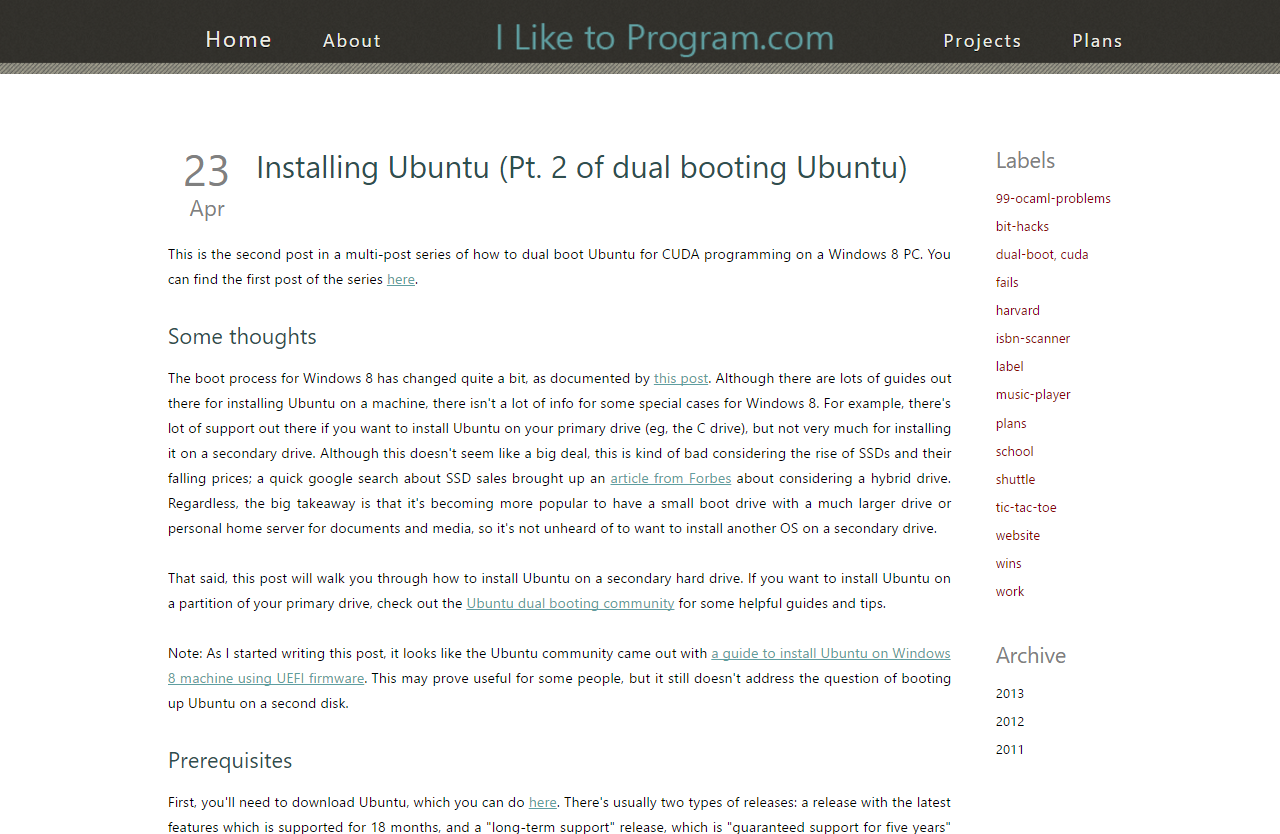
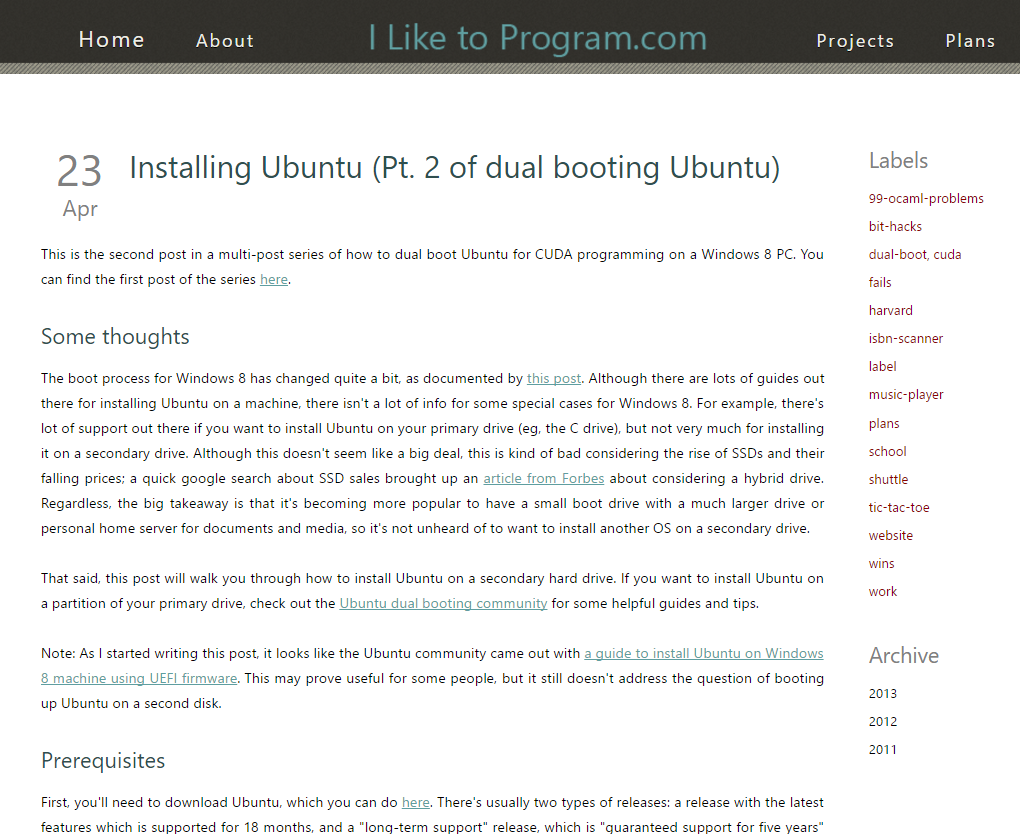
Changes include:  - Cropped images for that first post  - Updated about page  - Updated old posts with updated info  - Bulleted lists in posts are now using the "inside" list position style instead of the outside, ie text is flush against the bullet now

diff --git a/_sass/post.scss b/_sass/post.scss
@@ -22,7 +22,8 @@
         $line_height: 1.25em;
         margin-top: $line_height;
         clear: both;
-        line-height: $line_height; text-align: justify;
+        line-height: $line_height;
+        text-align: justify;
         h2 {
             float: none;
             margin: 0;
@@ -32,7 +33,6 @@
             line-height: $line_height;
         }
         p { margin-top: 0; }
-        ul, ol { list-style-position: inside; }
     }
     img {
         display: block; margin: auto; max-width: 100%; height: auto;

diff --git a/_posts/2017-04-20-new-look-changing-hosts-and-moving-to-jekyll.md b/_posts/2017-04-20-new-look-changing-hosts-and-moving-to-jekyll.md
@@ -1,44 +1,24 @@
 ---
 layout: post
 title: New look - Changing hosts and moving to Jekyll
-#date: 
-tags: [updates, website, jekyll]
+date: 2017-04-20
+tags: [updates, website, jekyll, s3, github-pages, wsl]
 image: /assets/images/post_img.png
 image_alt: New look
 image_caption: New look for the website
 description: 
 ---
 
- - Layout changes
-   + Projects moved from being locally hosted to github
-   + Plans section scrapped, since I change my mind all the time
-   + Archive moved to separate page
-   + Tags are no longer browseable
- - Code
-   + Moved from PHP+html+MySQL to html+Markdown+JS+YAML+Liquid generated by Jekyll
-   + Moved from CSS to SASS
-   + Will talk more about Jekyll in future posts
- - Hosting and domains
-   + Changed domain registrars from 1&1 to Amazon Route 53
-   + Initially moved from Hostinger to Amazon S3
-     * Required that I use Amazon Cloudfront to hook up Route 53 to S3 using https
-   + Later changed to GitHub pages and Cloudflare
-     * Will discuss why as well as the pros and cons of each later
- - Future posts
-   + Jekyll
-   + Windows drivers
-   + Personal finance
-
-Originally, this site was created during college as a place to show off some side projects when applying for jobs, as well as a means to maintain my super basic web dev skills.  I've since graduated and moved on to getting some jobs, but this website has pretty much [only changed once]({% post_url 2012-01-12-makeover %}).
+Originally, this site was created during college as a place to show off some side projects when applying for jobs, as well as a means to maintain my super basic web dev skills.  I've since graduated and moved on to getting some jobs, but this website has pretty much [only changed once]({% post_url 2012-01-12-makeover %}), and that was *5 years* ago.
 
 It was about time for a refresh.
 
-I've changed the site in 3 key ways:
+The site has changed in 3 key ways:
  - Layout
  - Underlying code
  - Hosting
 
- As a result, the website is much more performant and functional than before.
+ Additionally, I want to start focusing on generating long form content in the form of guides, tutorials, and opinions to help others who may have hit the same problems that I have.  Initially I'll be focusing on how this website got brought up, but in the near future I plan on talking about drivers primarily for Windows as well as financial topics.
 
 <!--more-->
 
@@ -48,7 +28,45 @@ Before these changes, the website looked something like this:
 
 <img src="/assets/images/oldsite_v2.png" alt="The old site">
 
-In that old design, I treated a flat list of "labels" aka tags as a first class citizen on the home page.  Looking back, this may not have been a great idea since there will probably be a large amount of tags in the future.  Furthermore, finding posts meant either a) browsing through the labels or b) digging through the archive which was broken down by year and month.  Since my blog was (and still is) pretty small, this is an alright solution, but it won't scale once I start adding more content to the website.
+In that old design, I treated a flat list of "labels" aka tags as a first class citizen on the home page.  Looking back, this may not have been a great idea since there will probably be a large amount of tags in the future.  Furthermore, finding posts meant either a) browsing through the labels or b) digging through the archive which was broken down by year and month.  Since my blog was (and still is) pretty small, this is an alright solution, but it won't scale once more content is added to the site.
 
-I've replaced the archive sidebar with the archive page, which is just a flat list sorted by year.  The posts aren't collapsed or anything, so users can browse the headlines.  I've also added a [Google Custom Search Engine](https://cse.google.com/cse/) search bar so users can quickly find content.  I don't have a replacement for browsing tags right now, but that may be something I'll add later; thanks to some underlying code changes I'll touch on later, doing so would be extremely trivial.
+The archive sidebar has been replaced by the archive page, which is just a flat list sorted by year.  The posts aren't collapsed or anything, so users can browse the headlines.  A [Google Custom Search Engine](https://cse.google.com/cse/) search bar to quickly find content.  There isn't a replacement for browsing tags right now, but that may be something I'll add later; thanks to some underlying code changes I'll touch on later in this post, doing so would be extremely trivial.
 
+The plans page has been completely eliminated, since they change all the time depending on time constraints and my whims.  It was pretty common for old posts to say something along the lines of "I hope to get started on blah blah project next week, described on the plans page" and then of course there'd be no follow-up
+
+The biggest change by far is the projects page.
+
+<img src="/assets/images/oldsite_v2_projects.png" alt="The old projects page">
+
+Binary and source code downloads for the projects were hosted on that page, since GitHub wasn't as popular a website when I first started out.  It effectively had a description, a README, some metadata (eg, language, documentation), a slide show of screenshots, and a list of downloads.  With the emergence of GitHub and other version control hosting services, the projects page became redundant.  The only things I really miss about that page was how the content was uniformly laid out and the screenshot slide show, but that's not a big loss at all when I get free hosting and no longer have to maintain the page and a bunch of zips.
+
+I've also changed the style of the site drastically to go for a more minimal feel as well as scale very well for mobile devices.
+
+## Code ##
+
+By far the biggest change was the move from PHP plus a MySQL database to [Jekyll](http://jekyllrb.com/), a static website generator.
+
+Beforehand, each page was a mix of HTML and PHP which would retrieve data from the database and wrap it in more HTML; in other words, content was stored in the database, and markup was done primarily in PHP with a bit of JavaScript here and there.  Content was uploaded to the database using my own crude "content management system" as a mix of weird HTML and plain text, and frankly it had a hard time dealing with spacing or uncommon characters, which was always a pain point.
+
+With Jekyll, content is written in [Markdown](https://en.wikipedia.org/wiki/Markdown#Example) or raw HTML and passed through a template engine called [Liquid](https://github.com/Shopify/liquid/wiki) to create static HTML files.  This results in a number of advantages over what I was doing previously as well as other CMSs:
+
+ - Because there is no server-side logic to run, loading pages is *super* fast, since it's just plain HTML and the occasional JavaScript.
+ - Content like blog posts are no longer hidden away inside databases or content management systems.  It's completely self-contained in easily-readable flat files that you can store anywhere, including a version control system like Git.
+ - Because the website is built locally before being put on the hosting service, the developer gets to control what is or isn't included in the website; compare this to a CMS like WordPress which relatively is very heavy with bloat.
+ - For the same reason as the previous point, there are way less security vulnerabilities because there is no database and no PHP.
+
+There are definitely some cons to Jekyll, especially when trying to adapt it for more complex sites which I'll get into in future posts, but for my purposes and this site, it's absolutely fantastic.
+
+Previously, Jekyll was only meant to be developed on *nix systems or Macs.  However, with the release of the Creator's Update for Windows 10, the [Windows Subsystem for Linux](https://msdn.microsoft.com/en-us/commandline/wsl/about), or WSL, is now more than functional as a development environment, and in fact it's easy to build websites using Jekyll in Windows as a result.  I've enjoyed the experience so much that I plan on writing a series of posts about my experience building this site in a Windows environment using Jekyll.
+
+## Hosting ##
+
+I'm a pretty cheap guy, so this website originally used to be hosted on [000webhost](https://www.000webhost.com/) which I believe to this day still offers free hosting with PHP and MySQL support.  The caveat back then was that sites without a minimal amount of traffic would be taken down every month.  I ended up having to re-upload the site every month.
+
+Eventually I switched to the free tier at [Hostinger UK](https://www.hostinger.co.uk/web-hosting) around three years ago.  Since the site was hosted in the UK though, it was pretty slow to load for me.
+
+In 2017, there are now more options around for cheap hosting low-traffic websites, and even more if a website doesn't need to run any server-side code like PHP.  I moved this site to the super-cheap [Amazon S3](https://aws.amazon.com/s3/) for a few days before settling on [GitHub Pages](https://pages.github.com/).  I plan on writing a post comparing the two services, but I found that GitHub pages met all my needs, [can actually build Jekyll sites for you](https://help.github.com/articles/about-github-pages-and-jekyll/) (so it doesn't need to be done locally), and is completely free versus the few cents per month for S3 plus the risk of a large bill if a DDoS occurred.
+
+The other change I made in this area was switching domain registrars.  I've used [1&1 Domains](https://www.1and1.com/domain-names?ar=1#stage) since this site's inception, but their UX has gone down the drain over the past few years.  I ended up switching to [Amazon Route 53](https://aws.amazon.com/route53/) when I switched my hosting service to S3 in order to use Amazon's CDN, [Amazon Cloudfront](https://aws.amazon.com/cloudfront/), to enjoy SSL support.  The UX for Route 53 is way better; it's much simpler and is not trying to actively upsell you on other products, which is nice for a change.  I've since changed CDNs to [Cloudflare](https://www.cloudflare.com/cdn/) which offers a [free tier that includes SSL certificates, a global CDN, and limited DDoS protection](https://www.cloudflare.com/plans/).
+
+All these changes have resulted in this website, which I hope users will enjoy more.  I'm genuinely looking forward to tinkering with it down the line as well as writing some material for the site.

diff --git a/_posts/2011-09-06-wins-school-and-more-projects.md b/_posts/2011-09-06-wins-school-and-more-projects.md
@@ -17,4 +17,4 @@ I made a ton of updates to the playlist shuffler, all little things that weren't
 
 In late August, I started designing an ISBN scanner for my friend's home library. He wants a digital archive of all the books in his house, and I figured he could use a variant of my iPod Touch scanner application to generate this archive. I started implementing the server-side script in Python (and nearly finished too) before realizing that my free host only supports PHP, goddammit. I'll probably translate the script to PHP and begin the scanner app later on this week when I'm finished with my first round of problem sets. I'll be devoting a very small amount of time to this over the course of the semester, and it should be *completely* finished by Christmas.
 
-I also found out that my AI course this semester will be using Python exclusively, and the first pset was a simple intro to Python. My experience with Python has mostly been with scripting, especially handling csv files, so I decided to go ahead and tackle 99 Problems in Python, inspired by [99 Problems in Prolog](https://sites.google.com/site/prologsite/prolog-problems){:target="_blank"}. I finished the first 28 problems in about 2 and a half hours, and I feel extremely comfortable manipulating lists in whatever paradigm I want in Python now. I'll probably tackle a few more problems tomorrow, and I'll post a copy of my solutions very soon, if I continue at this pace :)
+I also found out that my AI course this semester will be using Python exclusively, and the first pset was a simple intro to Python. My experience with Python has mostly been with scripting, especially handling csv files, so I decided to go ahead and tackle 99 Problems in Python, inspired by [99 Problems in Prolog](https://sites.google.com/site/prologsite/prolog-problems){:target="_blank"}. I finished the first 28 problems in about 2 and a half hours, and I feel extremely comfortable manipulating lists in whatever paradigm I want in Python now. I'll probably tackle a few more problems later, and I'll post a copy of my solutions very soon, if I continue at this pace :)

diff --git a/_posts/2011-07-26-music-player-fail.md b/_posts/2011-07-26-music-player-fail.md
@@ -19,4 +19,4 @@ Specifically, my computer did not agree with registering my deskband player in t
 
 My goal is to create a pretty minimal player that shuffles iTunes music and playlists using different audio libraries for audio support, starting with [Ambiera's IrrKlang engine](http://www.ambiera.com/irrklang/){:target="_blank"}. I've been working pretty hard at this application for two days now, and I'm extremely happy with my progress. Besides two blocking errors, I've only spent a few hours making a simple GUI, implementing play/pause and stop functionality, previous and next song functionality, and shuffling through iTunes playlists. Additionally, it's only using 24MB of RAM and 3% of the CPU, max, which is substantially better than iTunes.
 
-Tomorrow (or today lol) I plan on adding a ComboBox for switching playlists, which I already support, and adding an info pane to display song information. I'll put up that release, and then I'll probably tweak the GUI and put up that release as well. My goal is to minimize the player's CPU and RAM usage under the constraints of C#. I'll probably translate the code to Visual C++ later for even more performance increases :) If you have any ideas about what you'd like to see in a music player, [I'd love to hear about it](/about.html).
+Tomorrow (or today lol) I plan on adding a ComboBox for switching playlists, which I already support, and adding an info pane to display song information. I'll put up that release, and then I'll probably tweak the GUI and put up that release as well. My goal is to minimize the player's CPU and RAM usage under the constraints of C#. If you have any ideas about what you'd like to see in a music player, [I'd love to hear about it](/about.html).

diff --git a/files/about.md b/files/about.md
@@ -7,6 +7,6 @@ permalink: about.html
 
 <img src="/assets/images/clear.gif" data-echo="/assets/images/prof_pic150.jpg" id="profile-picture" width="150" align="right" alt="profile pic"/>
 
-Hi! My name is Randy Miller. This site originally started as a place to host work done in and outside of college before GitHub became popular.  It's now a place to help others who run into similar problems or just want to browse those simple college projects, viewable on my [GitHub](http://github.com/iliketoprogram14){:target="_blank"}.
+Hi! My name is Randy Miller. This site originally started as a means to document my progress as a software developer and to host work done in and out of college.  It's now a place to help others who run into similar problems or just want to browse those simple college projects, viewable on my [GitHub](http://github.com/iliketoprogram14){:target="_blank"}.
 
 This site was originally built with PHP and a SQL database so that I wouldn't lose touch with my web programming skills, but I've since transitioned to using [Jekyll](https://jekyllrb.com){:target="_blank"} to take advantage of hosting initially on [Amazon S3](https://aws.amazon.com/s3/){:target="_blank"} and now on [GitHub pages](https://pages.github.com/). 

diff --git a/_posts/2014-01-10-announcing-ynabcompanion.md b/_posts/2014-01-10-announcing-ynabcompanion.md
@@ -30,3 +30,5 @@ Back on topic, YNABcompanion is optimally used in the following way:
 Again, this is a simple app, but it's pretty effective at addressing the goal of adding transactions on the go for YNAB (without directly syncing with YNAB).
 
 You can learn more about the app [here]({{ site.data.projects['ynabcompanion'].url }}). The app's currently in certification, but I'll update this post and the project page with the link as soon as it's approved. I hope YNAB/Windows Phone users find this app useful (until I finish the real YNAB app)!
+
+Update: I ended up revoking the app from certification.  Reverse engineering YNAB's structure was a bit more of a PITA than I had hoped.  I've also moved away from Windows Phone, so I'm no longer developing this app.

diff --git a/_posts/2013-04-23-installing-ubuntu-(pt.-2-of-dual-booting-ubuntu).md b/_posts/2013-04-23-installing-ubuntu-(pt.-2-of-dual-booting-ubuntu).md
@@ -54,3 +54,5 @@ Once you're in the BIOS, use the arrow keys to find the "Boot Device" options. G
 Once you've changed the priorities, save your changes and exit the BIOS. Generally, there's a function key that will do this for you; this command is usually listed at the bottom of the BIOS. Now you're ready to install Ubuntu!
 
 Stay tuned for the continuation of this post, which includes installing Ubuntu, setting up the bootloader, and booting into Ubuntu for the first time!
+
+Update: I'll be writing a series of posts on installing multiple distributions of Linux on a single machine, so I'll try to integrate this post into that.

diff --git a/_posts/2011-08-03-music-player-beta.md b/_posts/2011-08-03-music-player-beta.md
@@ -15,4 +15,4 @@ description: I've updated my music player side project written in C# for Windows
 
 Currently, the application prompts the user to browse for the iTunes/Music directory, but it may be easier to just search for the iTunes xml library and hope for the best. At the end of the day, I need to design a way to handle errors from a bad library or xml file (the xml file may not be up to date), so that may take up tomorrow night.
 
-Other than those minor issues, I'm done!
+Other than those minor issues, I'm pretty much done!
